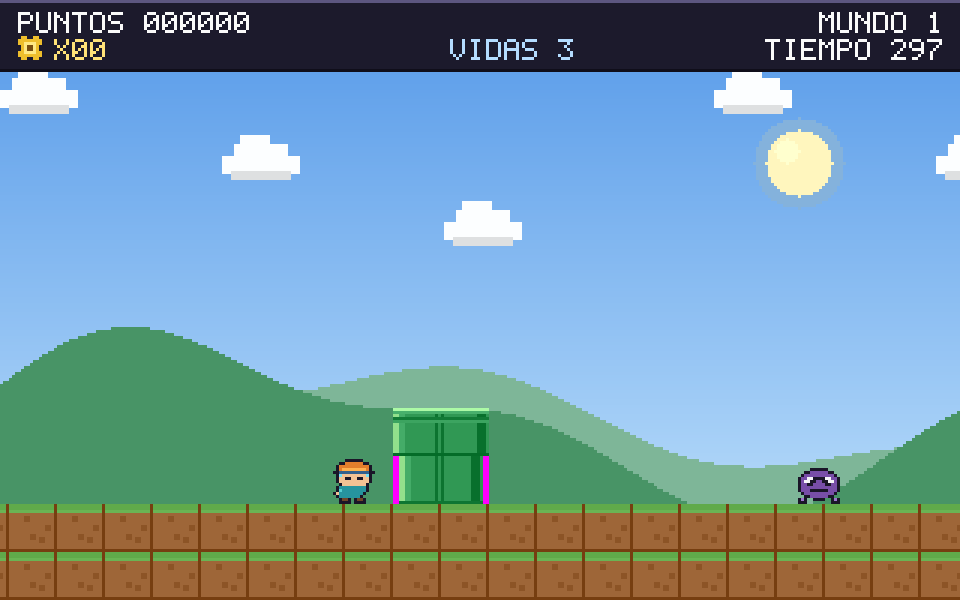
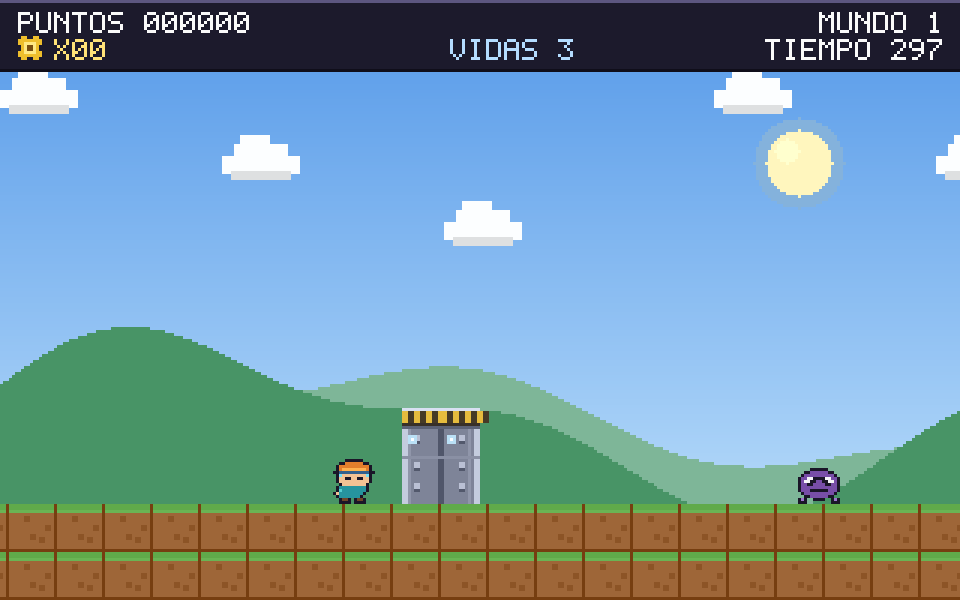
Cambia los tubos por columnas y el poste por una compuerta
Corrige el golpe de las cajas desde abajo, que fallaba por un pixel de desfase
al calcular la fila del bloque. Sustituye las tuberias verdes por columnas
metalicas con capitel de aviso y remaches, y el poste con bandera por una
compuerta de dos hojas con baliza que se abre al tocarla y admite el contacto
en toda su superficie. Amplia la autoprueba con el golpe de caja y actualiza la
documentacion y las capturas.

Changed region(s): [[0.4062, 0.66, 0.5312, 0.84]]

diff --git a/docs/ARQUITECTURA.md b/docs/ARQUITECTURA.md
@@ -72,7 +72,7 @@ Estados de `TJuego` y sus transiciones:
 | `ejJugando` | Inicio de partida o reanudación | P: pausa; muerte: `ejMuere`; meta: `ejFinNivel`; Esc: título |
 | `ejPausa` | P durante el juego | P o Enter: vuelve a `ejJugando`; Esc: título |
 | `ejMuere` | Contacto con enemigo sin escudo, caída o tiempo agotado | 96 fotogramas después: resta vida y reinicia el nivel o pasa a `ejGameOver` |
-| `ejFinNivel` | Tocar el poste de meta | 120 fotogramas después: siguiente nivel o `ejVictoria` |
+| `ejFinNivel` | Tocar la compuerta de salida | 130 fotogramas después: siguiente nivel o `ejVictoria` |
 | `ejGameOver` | Última vida perdida | Enter tras 40 fotogramas: título |
 | `ejVictoria` | Terminar el nivel 6 | Enter tras 40 fotogramas: título |
 
@@ -176,13 +176,13 @@ Las animaciones se eligen por contador de fotogramas: el bicho usa `(Fase div 6)
 | Ladrillo | Relleno base, cuatro líneas horizontales de mortero cada 4 px, junta vertical alternada en x=4 y x=12, bisel claro arriba e izquierda y oscuro abajo y derecha |
 | Caja | Tres variantes de brillo, bisel, cuatro remaches y una tuerca dibujada en el centro |
 | Caja usada | Relleno apagado, bisel y remaches, sin símbolo central |
-| Tubo, tapa izquierda | Cuerpo con margen transparente exterior, brillo en el borde interior, labio superior con línea de sombra |
-| Tubo, tapa derecha | Igual, con el brillo en el lado opuesto |
-| Tubo, cuerpo izquierdo | Cuerpo de 2 px de margen, bandas claras y oscuras |
-| Tubo, cuerpo derecho | Igual, con las bandas invertidas |
+| Columna, capitel izquierdo | Cuerpo con margen transparente exterior, banda de aviso amarilla y negra, baliza y remaches |
+| Columna, capitel derecho | Igual, con el brillo en el lado opuesto |
+| Columna, cuerpo izquierdo | Cuerpo con margen de 3 px, borde claro y dos remaches |
+| Columna, cuerpo derecho | Igual, con las bandas invertidas |
 | Viga | Relleno metálico, banda clara arriba, banda oscura abajo y cuatro remaches |
 
-Los tiles se reconstruyen al cargar cada nivel (`FreeAndNil(FTiles)` y `ConstruirTiles` con el tema), porque los colores cambian de un mundo a otro. En el dibujo, un tubo usa la tapa si el tile de arriba no es otro tubo y el cuerpo si lo es.
+Los tiles se reconstruyen al cargar cada nivel (`FreeAndNil(FTiles)` y `ConstruirTiles` con el tema), porque los colores cambian de un mundo a otro. En el dibujo, una columna usa el capitel si el tile de arriba no es otra columna y el cuerpo si lo es.
 
 ## 6. Formato de los niveles
 
@@ -198,18 +198,18 @@ Leyenda de caracteres:
 | `?` | Caja con sorpresa | Sí |
 | `U` | Caja ya usada | Sí |
 | `#` | Viga metálica | Sí |
-| `[` | Tubo, columna izquierda | Sí |
-| `]` | Tubo, columna derecha | Sí |
+| `[` | Columna metálica, mitad izquierda | Sí |
+| `]` | Columna metálica, mitad derecha | Sí |
 | `c` | Tuerca dorada | No |
 | `g` | Bicho caminante | No |
 | `s` | Púa giratoria | No |
 | `f` | Mosca voladora | No |
 | `M` | Posición inicial del héroe | No |
-| `E` | Poste de meta | No |
+| `E` | Compuerta de salida (dos columnas, cuatro filas) | No |
 
 `EsSolido` reconoce `=`, `B`, `?`, `U`, `#`, `[` y `]`. Fuera del mapa, `TNivel.Caracter` devuelve `'='` por debajo de la última fila y `' '` por arriba o a los costados; el motor de juego, en cambio, trata los costados como sólidos en `SolidoEn` para que nadie salga del escenario.
 
-Hay trece piezas con nombre (`inicio`, `piso`, `piso_monedas`, `hueco`, `hueco_bricks`, `bloques`, `escalera`, `tuberia`, `tuberia_alta`, `plataformas`, `enemigos`, `bicho_pua`, `final`) y una pieza adicional, `mosca`, que se agrega con `AgregarPorNombre` sin estar en la tabla. Cada nivel encadena entre 14 y 17 piezas:
+Hay trece piezas con nombre (`inicio`, `piso`, `piso_monedas`, `hueco`, `hueco_bricks`, `bloques`, `escalera`, `columna`, `columna_alta`, `plataformas`, `enemigos`, `bicho_pua`, `final`) y una pieza adicional, `mosca`, que se agrega con `AgregarPorNombre` sin estar en la tabla. Cada nivel encadena entre 14 y 17 piezas:
 
 | Nivel | Tema | Piezas | Columnas | Ancho en píxeles |
 | --- | --- | --- | --- | --- |
@@ -335,9 +335,9 @@ La autoprueba se ejecuta con `--autoprueba` o `--selftest`. El `.dpr` crea `TJue
 4. Pared: se construye un muro de cuatro columnas por tres filas, se corre a la derecha 90 fotogramas y el héroe no debe atravesarlo ni quedarse sin avanzar.
 5. Partida automática: 2400 fotogramas corriendo a la derecha y saltando cinco de cada treinta deben recoger al menos una tuerca y avanzar más de 96 píxeles.
 6. Dibujo: se cargan los seis niveles, se simulan tres fotogramas en cada uno y se llama a `Dibujar` sin ventana.
-7. Fin de nivel: se coloca al héroe sobre el poste, se comprueba que el estado pasa a `ejFinNivel` y que tras 140 fotogramas el juego avanza al mundo 2.
+7. Fin de nivel: se coloca al héroe junto a la compuerta, se comprueba que el estado pasa a `ejFinNivel`, que las hojas se abren y que tras 140 fotogramas el juego avanza al mundo 2.
 8. Muerte: se deja caer al héroe fuera del mapa, se comprueba que entra en `ejMuere` y que tras 130 fotogramas pierde una vida y reanuda la partida.
-9. Recorrido: un bot corre a la derecha y salta ante paredes, huecos y enemigos; con los enemigos desactivados debe llegar al poste en los seis mundos, lo que demuestra que ninguna pared ni ningún hueco impide avanzar.
+9. Recorrido: un bot corre a la derecha y salta ante paredes, huecos y enemigos; con los enemigos desactivados debe llegar a la compuerta en los seis mundos, lo que demuestra que ninguna pared ni ningún hueco impide avanzar.
 10. Entrada por flanco: pulsando salto un solo fotograma, el héroe debe despegar del suelo; pulsando avance, su velocidad horizontal debe dejar de ser cero.
 
 El paso 1 mide el ancho en tiles (`Nivel.Ancho`), no en píxeles. El paso 5 no exige terminar el nivel: comprueba que el bucle de juego, la recogida de tuercas y el avance funcionan juntos. El paso 6 no tiene aserciones; su valor es que cualquier excepción de dibujo hace fallar la ejecución. El paso 9 usa `FMortalInactivo` para desactivar el daño de los enemigos, de modo que mide la geometría del nivel y no la puntería del bot.

diff --git a/README.md b/README.md
@@ -8,11 +8,13 @@ Versión 1.0.0 · 16 de noviembre de 2026
 
 ## Qué es
 
-Salta Mundos es un juego de plataformas de desplazamiento lateral que se recorre de principio a fin en seis niveles, cada uno con un tema visual propio: pradera, atardecer, noche, cueva, desierto y fábrica. En cada nivel hay que alcanzar el poste de meta antes de que se agote el tiempo, recogiendo tuercas doradas y esquivando o pisando enemigos.
+Salta Mundos es un juego de plataformas de desplazamiento lateral que se recorre de principio a fin en seis niveles, cada uno con un tema visual propio: pradera, atardecer, noche, cueva, desierto y fábrica. En cada nivel hay que alcanzar la compuerta de salida antes de que se agote el tiempo, recogiendo tuercas doradas y esquivando o pisando enemigos.
 
 Todo el juego se dibuja a 320x200 píxeles y se escala a la ventana con un múltiplo entero, sin filtros, para conservar el aspecto de pixel art. No se carga ningún archivo de imagen, sonido o mapa: los sprites y los tiles se generan por código, la música y los efectos se sintetizan en tiempo real y los niveles están descritos dentro del ejecutable.
 
 El marcador rotula MUNDO a cada nivel; en este documento se usa «nivel» para referirse a la misma unidad de juego.
+
+![Compuerta de salida a punto de abrirse](docs/capturas/meta.png)
 
 ## Características
 
@@ -48,7 +50,7 @@ Las teclas de letras se leen por código de tecla, no por carácter, así que fu
 - Los ladrillos solo se rompen golpeándolos desde abajo con escudo.
 - Las cajas con sorpresa se abren desde abajo: entregan tuercas y, cada cuatro cajas golpeadas sin llevar escudo, entregan un escudo.
 - Se pierde una vida al tocar un enemigo sin escudo, al caer al vacío o al agotar el tiempo.
-- El nivel termina al tocar el poste con la bandera. Tras el sexto nivel aparece la pantalla de victoria.
+- El nivel termina al tocar la compuerta de salida: las dos hojas se abren y el juego pasa al mundo siguiente. Tras el sexto nivel aparece la pantalla de victoria.
 
 ## Enemigos
 
@@ -140,7 +142,7 @@ La captura de portada se publica en `docs/capturas/titulo.png`; la carpeta se cr
 
 ## Pruebas
 
-La autoprueba interna valida la estructura de los seis niveles (ancho mínimo, un único punto de inicio y un único poste de meta), la física en reposo y en salto, las colisiones contra paredes, una partida automática de 2400 fotogramas, el dibujo de los seis niveles sin ventana, el final de nivel con su paso al mundo siguiente, la muerte con descuento de vida y un recorrido completo con un bot que comprueba que ningún hueco ni pared impide terminar cada mundo. Cada comprobación recibe la condición de error y el resultado se escribe en `salta-mundos.log`, junto al ejecutable, y en la salida estándar.
+La autoprueba interna valida la estructura de los seis niveles (ancho mínimo, un único punto de inicio y una única compuerta de salida), la física en reposo y en salto, las colisiones contra paredes, una partida automática de 2400 fotogramas, el dibujo de los seis niveles sin ventana, el final de nivel con su paso al mundo siguiente, la muerte con descuento de vida y un recorrido completo con un bot que comprueba que ningún hueco ni pared impide terminar cada mundo. Cada comprobación recibe la condición de error y el resultado se escribe en `salta-mundos.log`, junto al ejecutable, y en la salida estándar.
 
 ```
 build\SaltaMundos.exe --autoprueba

diff --git a/docs/NOTAS-VERSION.md b/docs/NOTAS-VERSION.md
@@ -16,7 +16,7 @@ Primera version publica del juego, lista para jugar en Windows de 64 bits.
   que el control responda con precision.
 - Tres tipos de enemigo: bicho caminante, pua giratoria y mosca voladora.
 - Tuercas doradas como moneda, escudo que protege un golpe y permite romper
-  ladrillos, cajas con sorpresa y poste de meta con bandera.
+  ladrillos, cajas con sorpresa y compuerta de salida que se abre al tocarla.
 - Musica y efectos de sonido sintetizados en tiempo real con waveOut.
 - Marcador con puntos, tuercas, vidas, mundo y tiempo.
 
